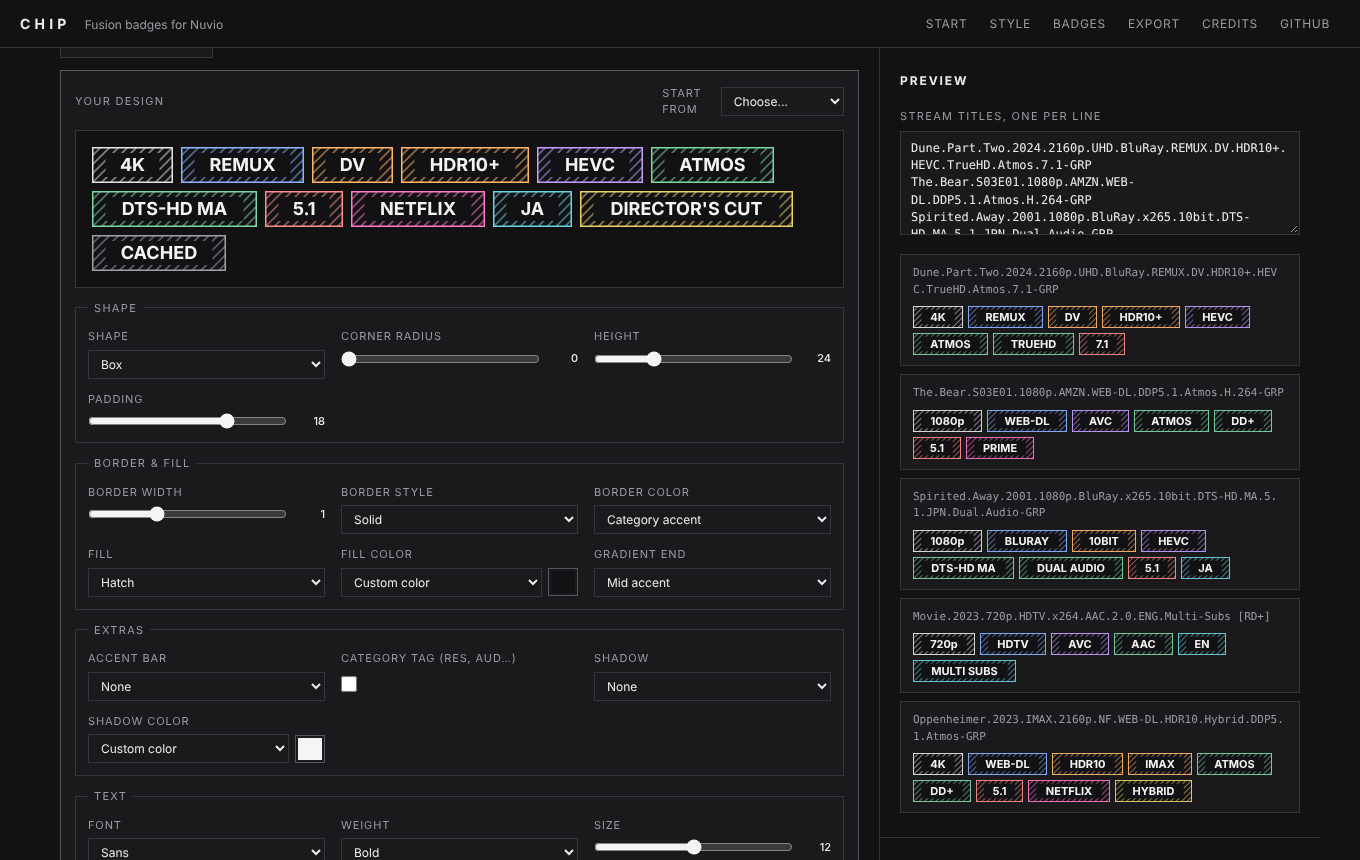
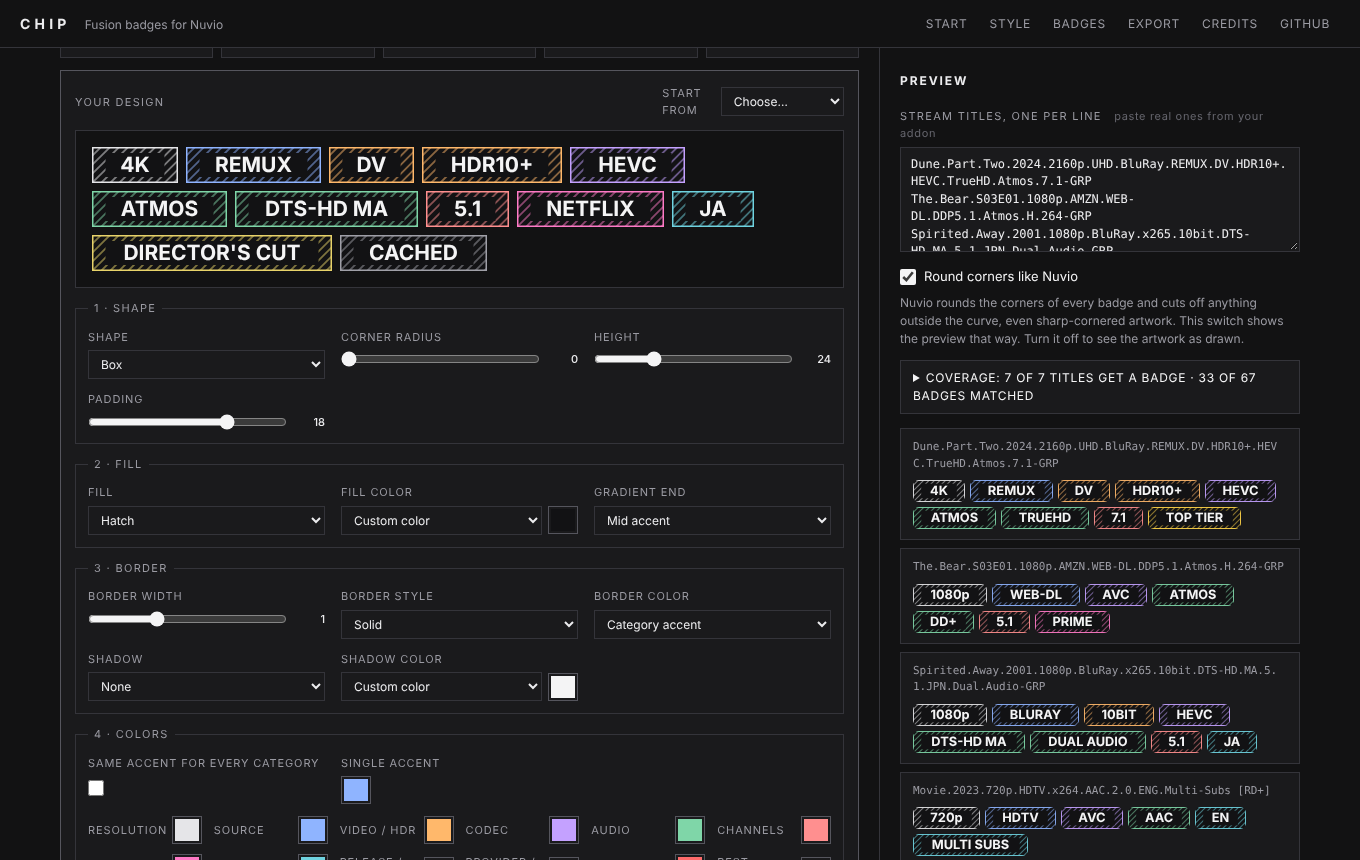
Update README, screenshots and credits for the new styling features
- Refresh social preview and screenshots (add a Style screenshot).
- README: starter packs / palette + fill style flow in How to use, project layout table,
  accurate build instructions (PNG output, rsvg-convert, SITE_V), honest limits.
- Credit Elite-Badges (test case for Borrow images) in the site and CREDITS.md.

Claude-Session: https://claude.ai/code/session_01BBzKyXhXqtfiKR4JCFDgG4

diff --git a/index.html b/index.html
@@ -1,5 +1,5 @@
 <!doctype html>
-<html lang="en" data-v="15">
+<html lang="en" data-v="16">
 <head>
 <meta charset="utf-8">
 <meta name="viewport" content="width=device-width, initial-scale=1">
@@ -30,7 +30,7 @@
   window.addEventListener('unhandledrejection', function (e) { window.chipBanner('Something went wrong: ' + ((e.reason && e.reason.message) || e.reason || 'unknown') + '.'); });
 })();
 </script>
-<link rel="stylesheet" href="style.css?v=15">
+<link rel="stylesheet" href="style.css?v=16">
 </head>
 <body>
 
@@ -269,7 +269,7 @@
 
 <div id="toast" class="toast" role="status" aria-live="polite"></div>
 
-<script src="catalog.js?v=15"></script>
-<script src="app.js?v=15"></script>
+<script src="catalog.js?v=16"></script>
+<script src="app.js?v=16"></script>
 </body>
 </html>

diff --git a/catalog.js b/catalog.js
@@ -1257,6 +1257,12 @@ window.CATALOG = {
    "note": "Reference for native badge-rule JSON versus AIOStreams formatter text."
   },
   {
+   "name": "Elite-Badges",
+   "by": "leonevz",
+   "url": "https://github.com/leonevz/Elite-Badges",
+   "note": "A logo-image pack used as the test case for Borrow images. Chip does not copy or host any of its files."
+  },
+  {
    "name": "Community badge packs",
    "by": "sweatycab, 9mousaa, Deigue, kingsizew and others",
    "url": "https://github.com/Deigue/nuvio-solid-badges",
@@ -1396,4 +1402,4 @@ window.CATALOG = {
   }
  ]
 };
-window.CHIP_V = "15";
+window.CHIP_V = "16";

diff --git a/tools/build.py b/tools/build.py
@@ -170,6 +170,8 @@ CREDITS = [
      "note": "Reference for how Nuvio badge packs and import work."},
     {"name": "NuvioSync badge guide", "by": "NuvioSync", "url": "https://nuviosync.com/blog/nuvio-badge-urls-stream-badges",
      "note": "Reference for native badge-rule JSON versus AIOStreams formatter text."},
+    {"name": "Elite-Badges", "by": "leonevz", "url": "https://github.com/leonevz/Elite-Badges",
+     "note": "A logo-image pack used as the test case for Borrow images. Chip does not copy or host any of its files."},
     {"name": "Community badge packs", "by": "sweatycab, 9mousaa, Deigue, kingsizew and others",
      "url": "https://github.com/Deigue/nuvio-solid-badges",
      "note": "Public packs studied only to confirm the JSON fields. No artwork or patterns are copied here."},
@@ -558,7 +560,7 @@ else:
 # ART_V: a hash of all artwork. It is appended to image URLs in exported packs, so an app that caches images by
 # URL (Nuvio) downloads them again when the artwork changes.
 import hashlib
-SITE_V = "15"
+SITE_V = "16"
 _h = hashlib.sha1()
 for _r, _d, _fs in sorted(os.walk(os.path.join(OUT, "badges"))):
     for _f in sorted(_fs):

diff --git a/README.md b/README.md
@@ -15,12 +15,12 @@ Minimal, square-edged, entirely in your browser.
 
 Chip is a static editor for Nuvio Fusion stream badge packs. There is no server, no account and no build step. Everything runs in your browser and nothing is uploaded.
 
-<img src="assets/screenshot-main.png" alt="Chip main screen with the Plate design applied" width="100%">
+<img src="assets/screenshot-main.png" alt="Chip start screen with starter packs and the live preview" width="100%">
 
 ## How to use it
 
 1. Open **[aljaz-h.github.io/chip](https://aljaz-h.github.io/chip/)**.
-2. Pick a look, switch the badges you want on or off, and check them against real stream titles in the preview.
+2. Start from a **starter pack** (or switch badges on and off yourself), pick a **look**, and check it against real stream titles in the preview. A look is either a *palette + fill style* (Nuvio draws it, nothing to host) or one of the *designs* (artwork images).
 3. In **Export**, choose **GitHub Gist** (recommended). Create a token that only has the *gist* permission (the button opens the right page), paste it once, and click **Publish to Gist**. You get a link pinned to that version. Each time you update the pack you get a new link, because that is what makes Nuvio and GitHub fetch the fresh copy instead of a cached one. No token? Use **Manual Gist**: it copies the pack and opens gist.github.com, and the site turns your gist's address into the link.
 4. In Nuvio open **Settings → Streams → Fusion badge URLs** (Android TV: **Settings → Layout → Streams**), paste the link, tap **Import**, then select it as the active pack. Menu labels can differ between versions.
 
@@ -38,7 +38,9 @@ Chip is a static editor for Nuvio Fusion stream badge packs. There is no server,
 - **Import** an existing pack by paste, file or raw URL, edit it, and export it again.
 - Reorder badges and categories, and add your own badges with a custom regex.
 
-<img src="assets/screenshot-designer.png" alt="The Your design builder" width="100%">
+<img src="assets/screenshot-style.png" alt="Palettes, fill styles and the grouped designs" width="100%">
+
+<img src="assets/screenshot-designer.png" alt="The Your design builder, grouped into layers" width="100%">
 
 ## Using your own design
 
@@ -51,16 +53,27 @@ Your design is drawn in your browser as one PNG per badge.
 
 Fork the repo, then **Settings → Pages → Deploy from a branch → `main` / root**. Change `aljaz-h` in `index.html` (link previews) and `README.md` to your own account.
 
+## Project layout
+
+| Path | What it is |
+| --- | --- |
+| `index.html`, `style.css`, `app.js` | The whole site: plain HTML, CSS and JavaScript, no build step |
+| `catalog.js` | Generated: badges, patterns, presets, starter packs, credits |
+| `badges/` | Generated artwork, one folder per design (`<design>/` and `<design>-round/`), 4x PNG |
+| `tools/build.py` | Generates `catalog.js` and the artwork |
+| `assets/` | README screenshots and the social preview |
+
 ## Changing or adding badges
 
-The catalog and the style presets live in `tools/build.py`. Edit the `B` list (badges) or `PRESETS` (styles), then regenerate `catalog.js`, the SVGs and the PNGs (needs `rsvg-convert`, from librsvg):
+The catalog, palettes, designs and starter packs live in `tools/build.py`. Edit the `B` list (badges), `PRESETS` (palettes), the `d_*` functions (designs) or `PACKS` (starter packs), then regenerate:
 
 ```
 pip install pillow fonttools
+sudo apt install librsvg2-bin    # provides rsvg-convert
 python3 tools/build.py .
 ```
 
-The script reads Inter Bold and DejaVu Sans Mono Bold from Linux paths (`INTER` and `MONO_FILE`) and draws the labels as outlines, so it also needs `pip install fonttools`. Change the paths to any bold fonts on your machine.
+The script draws every label as vector outlines using Inter Bold and DejaVu Sans Mono Bold. It reads them from Linux paths (`INTER` and `MONO_FILE`), so change those to any bold fonts on your machine. Artwork is written as SVG to a scratch folder and rendered to PNG with `rsvg-convert`. Set `CHIP_KEEP_SVG=1` to keep the SVG sources. When you change `index.html`, `app.js` or `style.css`, bump `SITE_V` in `build.py` and run it again: it stamps the `?v=` cache-busting tags and the version check.
 
 ## Honest limits
 

diff --git a/CREDITS.md b/CREDITS.md
@@ -8,11 +8,12 @@ This project follows an idea other people built first. Please go and look at the
 | [Nuvio Badge Studio](https://itsvoidog.github.io/nuvio-badge-studio/) | Voidxo | Badger credits Voidxo for making its badge editor possible. |
 | [Core Builds badge docs](https://core-builds.mintlify.app/nuvio-badges) | Core Builds | Reference for how Nuvio badge packs and import work. |
 | [NuvioSync badge guide](https://nuviosync.com/blog/nuvio-badge-urls-stream-badges) | NuvioSync | Reference for native badge-rule JSON versus AIOStreams formatter text. |
+| [Elite-Badges](https://github.com/leonevz/Elite-Badges) | leonevz | A logo-image pack used as the test case for the *Borrow images* feature. Chip does not copy or host any of its files; it only links to a pack's images when you ask it to. |
 | [Community packs](https://github.com/Deigue/nuvio-solid-badges) | sweatycab, 9mousaa, Deigue, kingsizew and others | Public packs studied only to confirm the JSON fields. |
 
 ## What is original here
 
-The catalog, regex patterns, SVG artwork, interface and code in this repository were written for this project. No code, templates or artwork were copied from the projects above.
+The catalog, regex patterns, badge artwork, interface and code in this repository were written for this project. No code, templates or artwork were copied from the projects above.
 
 ## Not affiliated
 
